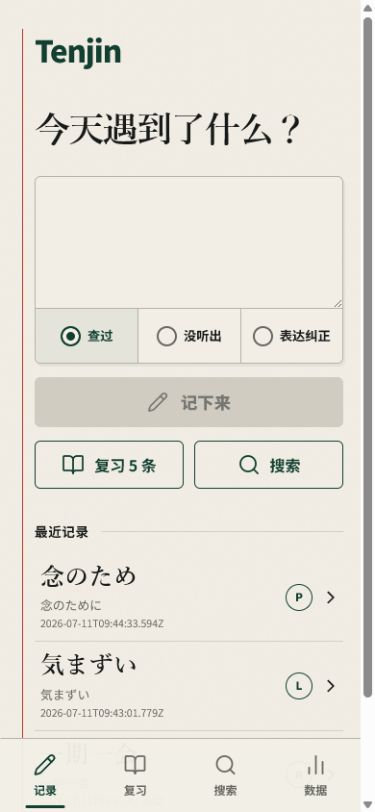
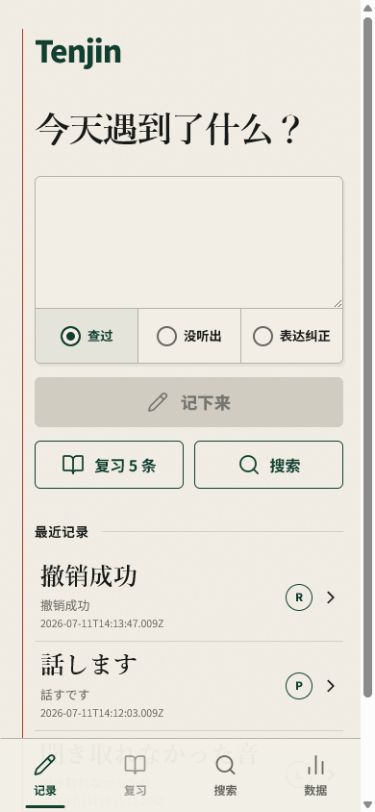
docs: refresh final browser acceptance

diff --git a/docs/qa/2026-07-11-tenjin-vertical-slice.md b/docs/qa/2026-07-11-tenjin-vertical-slice.md
@@ -5,13 +5,13 @@ Branch: `codex/tenjin-vertical-slice`
 
 ## Acceptance result
 
-PASS. Capture、复习、搜索、撤销、数据状态、PWA manifest 和断网重载均在真实浏览器中通过；控制台没有应用 warning/error。
+PASS. Capture、草稿保留、真实材料复习、搜索、撤销、数据状态、PWA manifest 和断网重载均在最终 production build 的真实浏览器中通过；控制台没有应用 warning/error。独立代码复审结论为 `APPROVED`，没有 Critical/Important 遗留。
 
 ## Method and environment
 
 - Surface: Codex in-app Browser using its Playwright-compatible controls.
 - App source: `pnpm build` 生成的 `apps/web/dist`，通过本地 production preview 加载。
-- Mobile viewport override: 390 × 844 CSS px。应用内浏览器在可滚动首页预留了 15px 原生滚动条，因此首页截图栅格为 375 × 812；无滚动的复习页为 390 × 844。
+- Mobile viewport override: 390 × 844 CSS px。应用内浏览器保留原生 chrome 与 15px 滚动条，最终两张手机截图栅格均为 375 × 812。
 - Desktop viewport override: 1280 × 900 CSS px；截图栅格为 1265 × 889，居中 paper shell 实测 760px。
 - 两张概念图与最终实现截图均以原始尺寸通过 `view_image` 检查。
 
@@ -20,11 +20,13 @@ PASS. Capture、复习、搜索、撤销、数据状态、PWA manifest 和断网
 | Check | Result | Evidence |
 | --- | --- | --- |
 | Capture and recent row | PASS | 分别写入 lookup、listening miss、production correction；最近记录显示 R/L/P、原文和时间，重载后仍在。 |
-| Review reveal and answer | PASS | 3 条会话完成 hesitant/pass/fail；揭示后焦点落到“记得”，回答后落到下一题标题，完成态焦点落到完成标题，live status 正确播报。 |
-| Search | PASS | 输入“念のため”后只剩目标项，并显示 `P unstable` 与证据数。 |
-| Undo | PASS | 新增“撤销成功”后在 8 秒内撤销；toast 消失，最近记录中不存在该项。 |
+| Draft retention | PASS | 输入未完成的 production original/correction，切到搜索再返回记录，两段草稿和记录类型均完整保留；保存后才清空。 |
+| Review reveal and answer | PASS | Lookup 因没有答案材料不进入队列；会话实际为 2 条 L/P。P 题先显示原句“話すです”，纠正版“話します”只在揭示后出现；hesitant/fail 写入后分别进入下一题与完成态，焦点和 live status 正确。 |
+| Search | PASS | 输入“話します”后只剩目标项，并显示 `P unstable` 与证据 2。 |
+| Undo | PASS | 新增“撤销重试验收”后在 8 秒内撤销；toast 消失，最近记录中不存在该项。 |
 | Data and persistence status | PASS | 数据页显示事件/上下文数量；本机返回“尽力保留”，并明确持久化不等于绝对安全。 |
-| PWA/offline shell | PASS | manifest 含 192/512/maskable 图标；停止 4173 preview 并确认端口不可达后，浏览器重载仍完整渲染首页和本机数据。 |
+| Failure/concurrency recovery | PASS | 自动化 deferred-write 回归覆盖首次/后续读取重试、复习保存重试、撤销失败重试、旧撤销不得污染新记录、写入中禁止重开会话或带走草稿；v1 数据库升级阻塞会显示可重试错误。 |
+| PWA/offline shell | PASS | manifest 含 192/512/maskable 图标；停止 4178 preview 并确认端口不可达后，浏览器重载仍完整渲染首页和本机数据。更新采用 waiting/prompt 模式，不会自动重载并丢弃内存草稿。 |
 | Console errors | PASS | 离线重载后读取 warning/error 日志为空。 |
 
 ## Visual fidelity ledger
@@ -62,7 +64,7 @@ Implementation screenshots:
 ### Intentional deviations
 
 - 复习概念使用虚构例句、先回想文本和详细笔记；竖切版没有伪造这些数据，只展示真实可导出的 item、通道、笔记空态和选择原因。
-- 概念的 `2 / 5` 与截图的 `1 / 3` 来自不同本机数据集；复习预算仍为最多 5 条。
+- 概念的 `2 / 5` 与截图的 `1 / 2` 来自不同本机数据集；实现只把有真实提示/答案材料的 L/P 项纳入队列，复习预算仍为最多 5 条。
 - 概念中的菜单/结束入口由当前固定底栏导航覆盖；完成后另有“结束本次”。
 - 首页概念能在一屏容纳三条极简记录；实现因显示原文与时间，在 390px 首屏看到两条并可继续滚动，这是为账本可核对性保留的差异。
 
@@ -70,7 +72,7 @@ Implementation screenshots:
 
 ## Command evidence
 
-- `pnpm test`: PASS，191/191（core 96、storage 38、web 57）。
+- `pnpm test`: PASS，245/245（core 129、storage 42、web 74）。
 - `pnpm typecheck`: PASS。
 - `pnpm lint`: PASS，0 warnings。
 - `pnpm build`: PASS；Vite 生成 production bundle，PWA `generateSW` 预缓存 11 项，并生成 `dist/sw.js` 与 Workbox runtime。